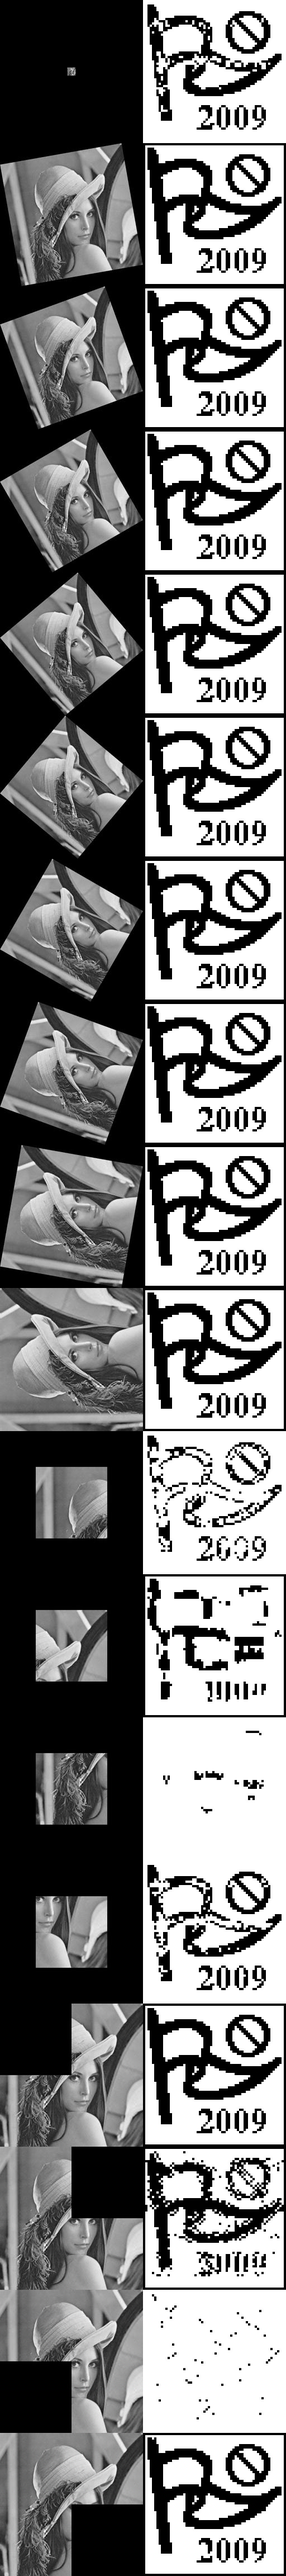
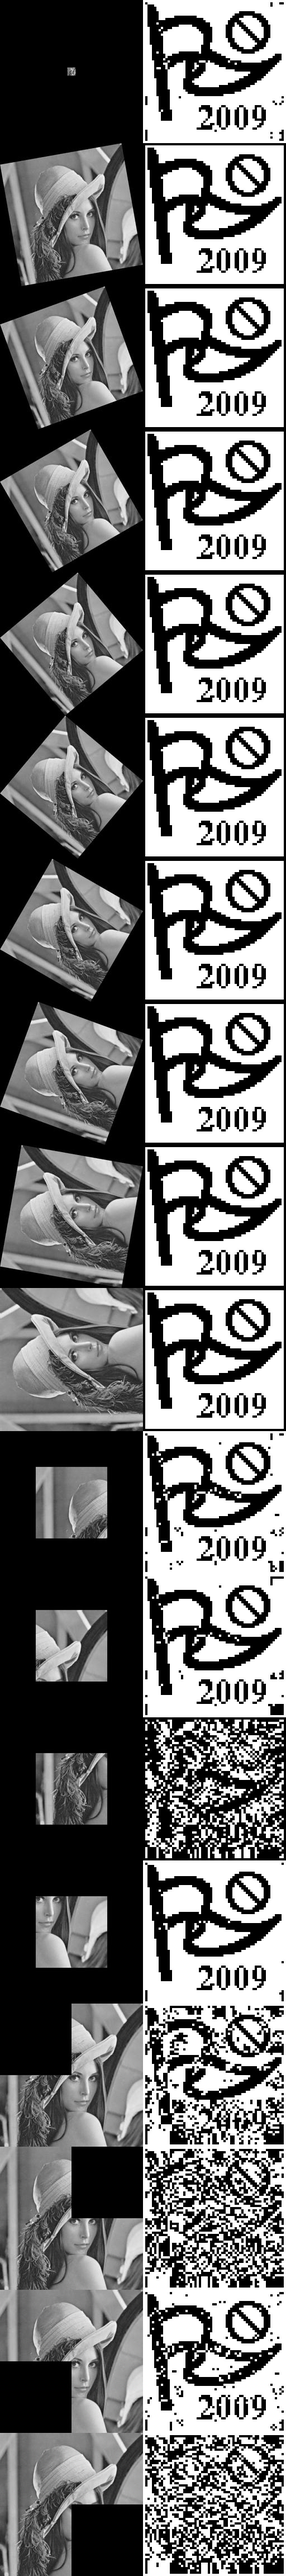
PSO

Changed region(s): [[0.5, 0.5625, 1.0, 1.0], [0.5312, 0.0, 0.5938, 0.0312], [0.6875, 0.0, 0.7188, 0.0312]]

diff --git a/extract_watermark.m b/extract_watermark.m
@@ -20,18 +20,18 @@ function [extwm, nc] = extract_watermark(N, M, im, expwm, S1, S2, UW, VW, k1, k2
     %extwm2 = blockproc(extwm2, [8 8], idct); 
     %extwm1 = igat(extwm1, M);
     %extwm2 = igat(extwm2, M);
-    if corr2(extwm1, expwm) < corr2(1-extwm1, expwm)
+    if similarity(extwm1, expwm) < similarity(1-extwm1, expwm)
         extwm1 = 1-extwm1;
     end
-    if corr2(extwm2, expwm) < corr2(1-extwm2, expwm)
+    if similarity(extwm2, expwm) < similarity(1-extwm2, expwm)
         extwm2 = 1-extwm2;
     end
-    if corr2(expwm, extwm1) < corr2(expwm, extwm2)
+    if similarity(expwm, extwm1) < similarity(expwm, extwm2)
         extwm = extwm2;
     else
         extwm = extwm1;
     end
-    nc = corr2(extwm, expwm); %返回提取出的图片与原水印的相似度
+    nc = similarity(extwm, expwm); %返回提取出的图片与原水印的相似度
 
     %imshow([extwm1, extwm2]);
 end

diff --git a/test/test_circrop.m b/test/test_circrop.m
@@ -1,0 +1,16 @@
+function [res, wm, nc] = test_circrop(N, M, im, expwm, S1, S2, UW, VW, k1, k2)
+    im = im2double(im2gray(im));
+    sz = size(im);
+    ci = [fix(sz(1)/2), fix(sz(2)/2), fix(sz(1)/2)];     % center and radius of circle ([c_row, c_col, r])
+    [xx,yy] = ndgrid((1:sz(1))-ci(1),(1:sz(2))-ci(2));
+    mask = double((xx.^2 + yy.^2)<ci(3)^2);
+    im = im .* im2double(mask);
+    %imshow(im);
+
+    imwrite(im, './test.jpg');
+    im = imread('./test.jpg');
+    im = im2double(im2gray(im));
+    res = im;
+    im = im2double(imresize(im2gray(im), [N N]));
+    [wm, nc] = extract_watermark(N, M, im, expwm, S1, S2, UW, VW, k1, k2);
+end

diff --git a/DWT/idwt2_3times.m b/DWT/idwt2_3times.m
@@ -2,5 +2,6 @@ function im = idwt2_3times(HL1, LH1, HH1, HL2, LH2, HH2, LL3, HL3, LH3, HH3)
     LL2 = idwt2(LL3, HL3, LH3, HH3, 'Haar');
     LL1 = idwt2(LL2, HL2, LH2, HH2, 'Haar');
     im = idwt2(LL1, HL1, LH1, HH1, 'Haar');
+    im = im2double(im);
     % imshow(im);
 end

diff --git a/test/similarity.m b/test/similarity.m
@@ -1,0 +1,7 @@
+function sim = similarity(im1, im2)
+    % 用来比较两个图像的相似度
+    sim = log(corr2(im1, im2)+1);
+    %im1 = im2double(im1);
+    %sim = normxcorr2(imnoise(im1, 'gaussian'), im2);
+    %sim = max(sim(:));
+end

diff --git a/DWT/idwt2_2times.m b/DWT/idwt2_2times.m
@@ -1,5 +1,6 @@
 function im = idwt2_2times(HL1, LH1, HH1, LL2, HL2, LH2, HH2)
     LL1 = idwt2(LL2, HL2, LH2, HH2, 'Haar');
     im = idwt2(LL1, HL1, LH1, HH1, 'Haar');
+    im = im2double(im);
     % imshow(im);
 end

diff --git a/startup.m b/startup.m
@@ -1,0 +1,3 @@
+addpath ./DWT/
+addpath ./GAT/
+addpath ./test/

diff --git a/README.md b/README.md
@@ -23,7 +23,7 @@ $k_i$是神秘参数，由PSO生成；咱们先不管了，当个常数。然后
 所以提取的时候所作的将是 $$ S = \frac{1}{k_1} (S_1^\prime - S_1) $$
 因为在低频和高频信号上都做了嵌入，因此可以提取出俩$S$；可能增加robustness吧。
 **注意：** 这样计算得到的$S$并不是原来的$S$；因为$U_1S_1^\prime V_1$的SVD得到的中间项并非原来的$S_1^\prime$。它们会相差不多吗？我不确定；先做了再说咯。
-算出了$S$后，再使用喜闻乐见的IDWT直接把这一低频信号转换回去。根据DWT的原理来说，低频信号保留了图像的基本结构，因此只要不是极其精致的水印，损失应该不大。（当然，也可以保留水印图像的中、高频信号，尝试更完整地恢复）
+算出了$S$后，再使用喜闻乐见的IDWT直接把这一低频信号转换回去。根据DWT的原理来说，低频信号保留了图像的基本结构，因此只要不是极其精致的水印，损失应该不大。
 
 ## 实现思路
 #### 20230531
@@ -47,4 +47,21 @@ $k_i$是神秘参数，由PSO生成；咱们先不管了，当个常数。然后
 Robustness 测试结果尚可，有两处测试没法通过；一处是遮蔽左下角的1/4，一处只截取左下角的1/4（奇怪的是，当我只截取图的1/16时，一切都好）
 另有两处质量较差，分别是遮蔽/截取右上角的1/4。
 明天写PSO优化，把参数$k_1, k_2$调好，不知能否解决上述问题。
+
+#### 20230602
+加入了PSO优化；PSO指的是Particle Swarm Optimization，一种随机优化算法。
+原来的公式为
+$$ \text{fitness} = -\frac{\text{PSNR} + \sum_{\text{all\ test}}NC }{\text{number of tests}} $$, which does not make any sense...
+首先是这个除以$n$的正则化毫无必要，因为$n$是个常数；然后峰值信噪比这东西，如果你对原图像一模一样不改，它的值是$\frac{1}{0}=+\infty$，所以后面一项根本不被考虑……
+然后根据个人理解，转而尝试了这样一个目标函数（PSO尝试求其最小值，也就是各NC尽可能大）
+$$ \text{fitness} = \begin{cases}
+100-NC_0 & \text{if } NC_0<0.999\\
+-\sum_{\text{test\ }i}c_iNC_i & \text{otherwise}
+\end{cases}$$
+$c_i$是一些常系数，用来调整各项的比重；$NC_0$为嵌入图像与原图像的相关系数（correlation coefficient）。也就是说，我们要求
+1. 嵌入水印后，与图像的区别不大，否则我们把与原图像的相关系数作为优化对象。
+2. 在嵌入水印的图片有了质量保证后，优化其他测试下提取出的水印质量；测试包括放缩、旋转、裁剪、覆盖等
+
+另外，函数的变量是$k_1$与$k_2$，此处为对角矩阵（应该符合原论文意思？如果是一般的矩阵就必须保证满秩了），也就相当于一个128维的变量。
+目前还在迭代；挂机一晚上先，明早起来看。
 
